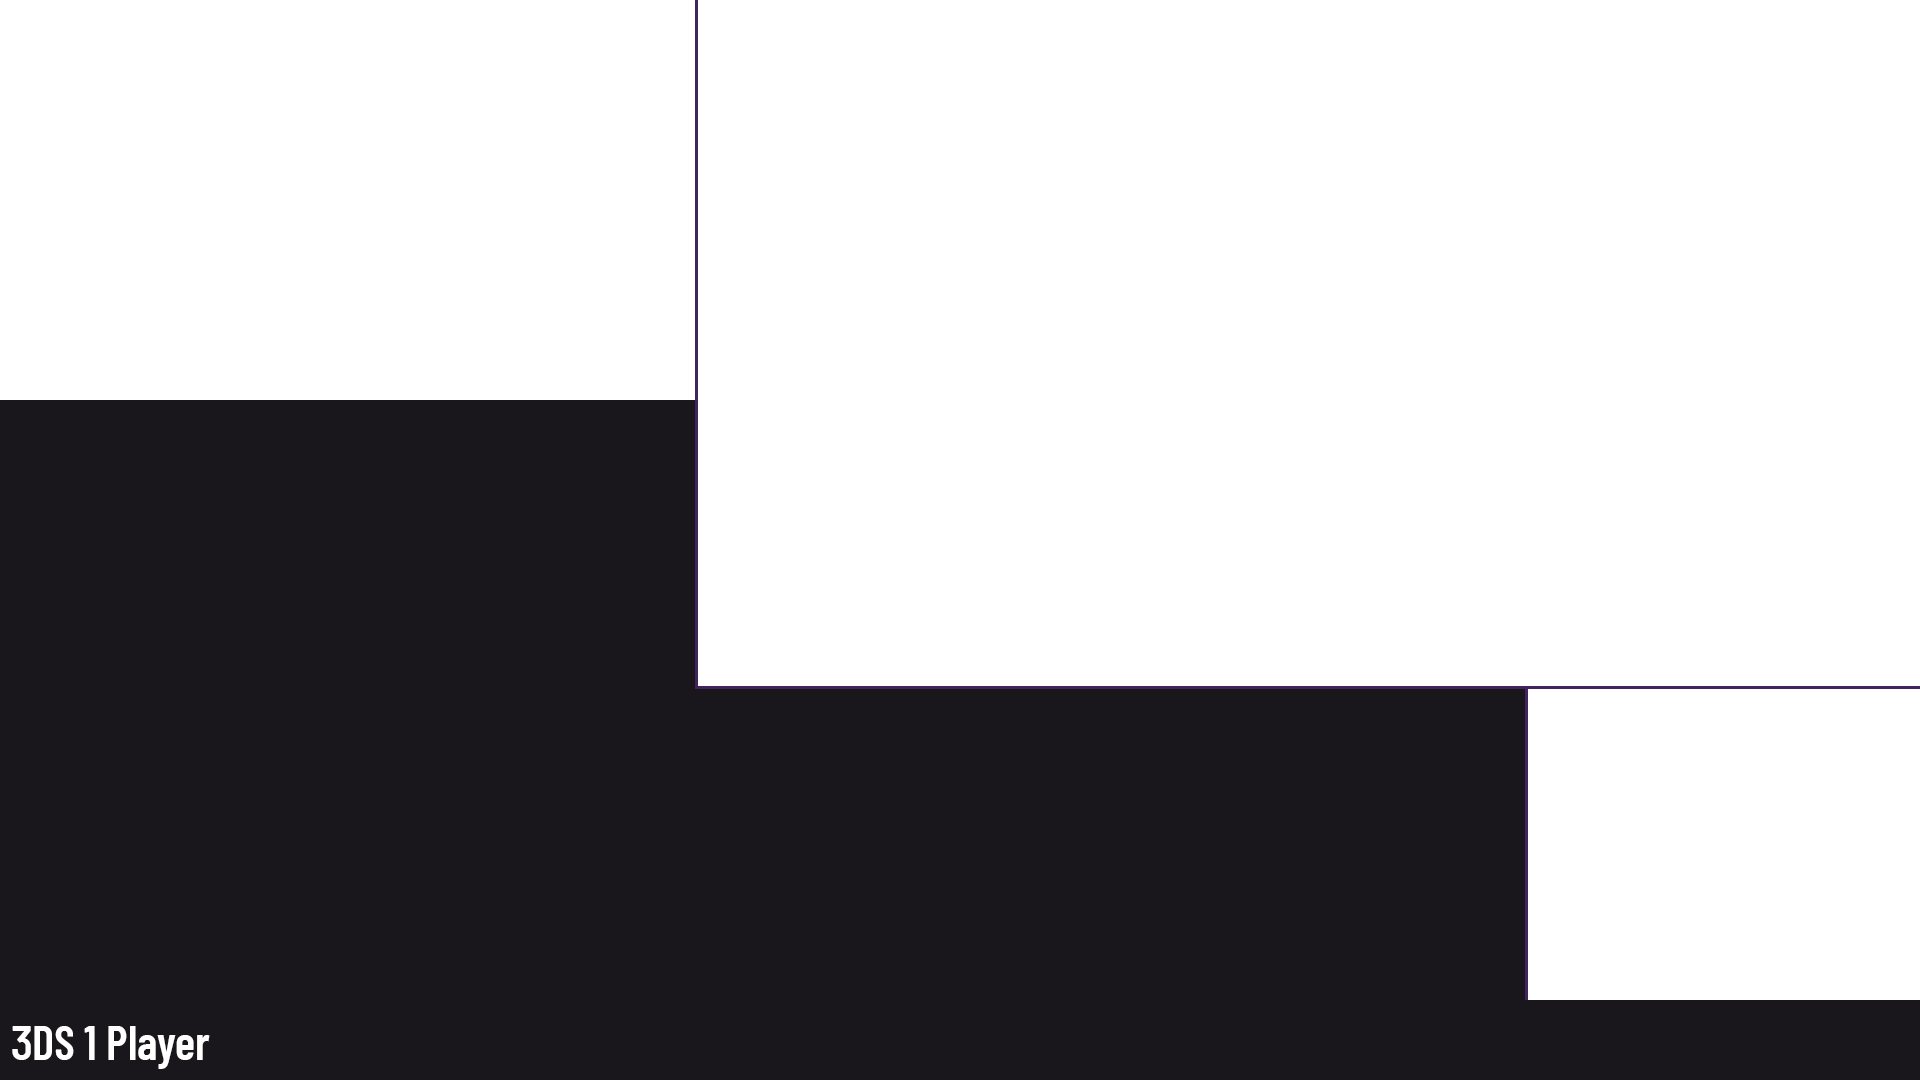
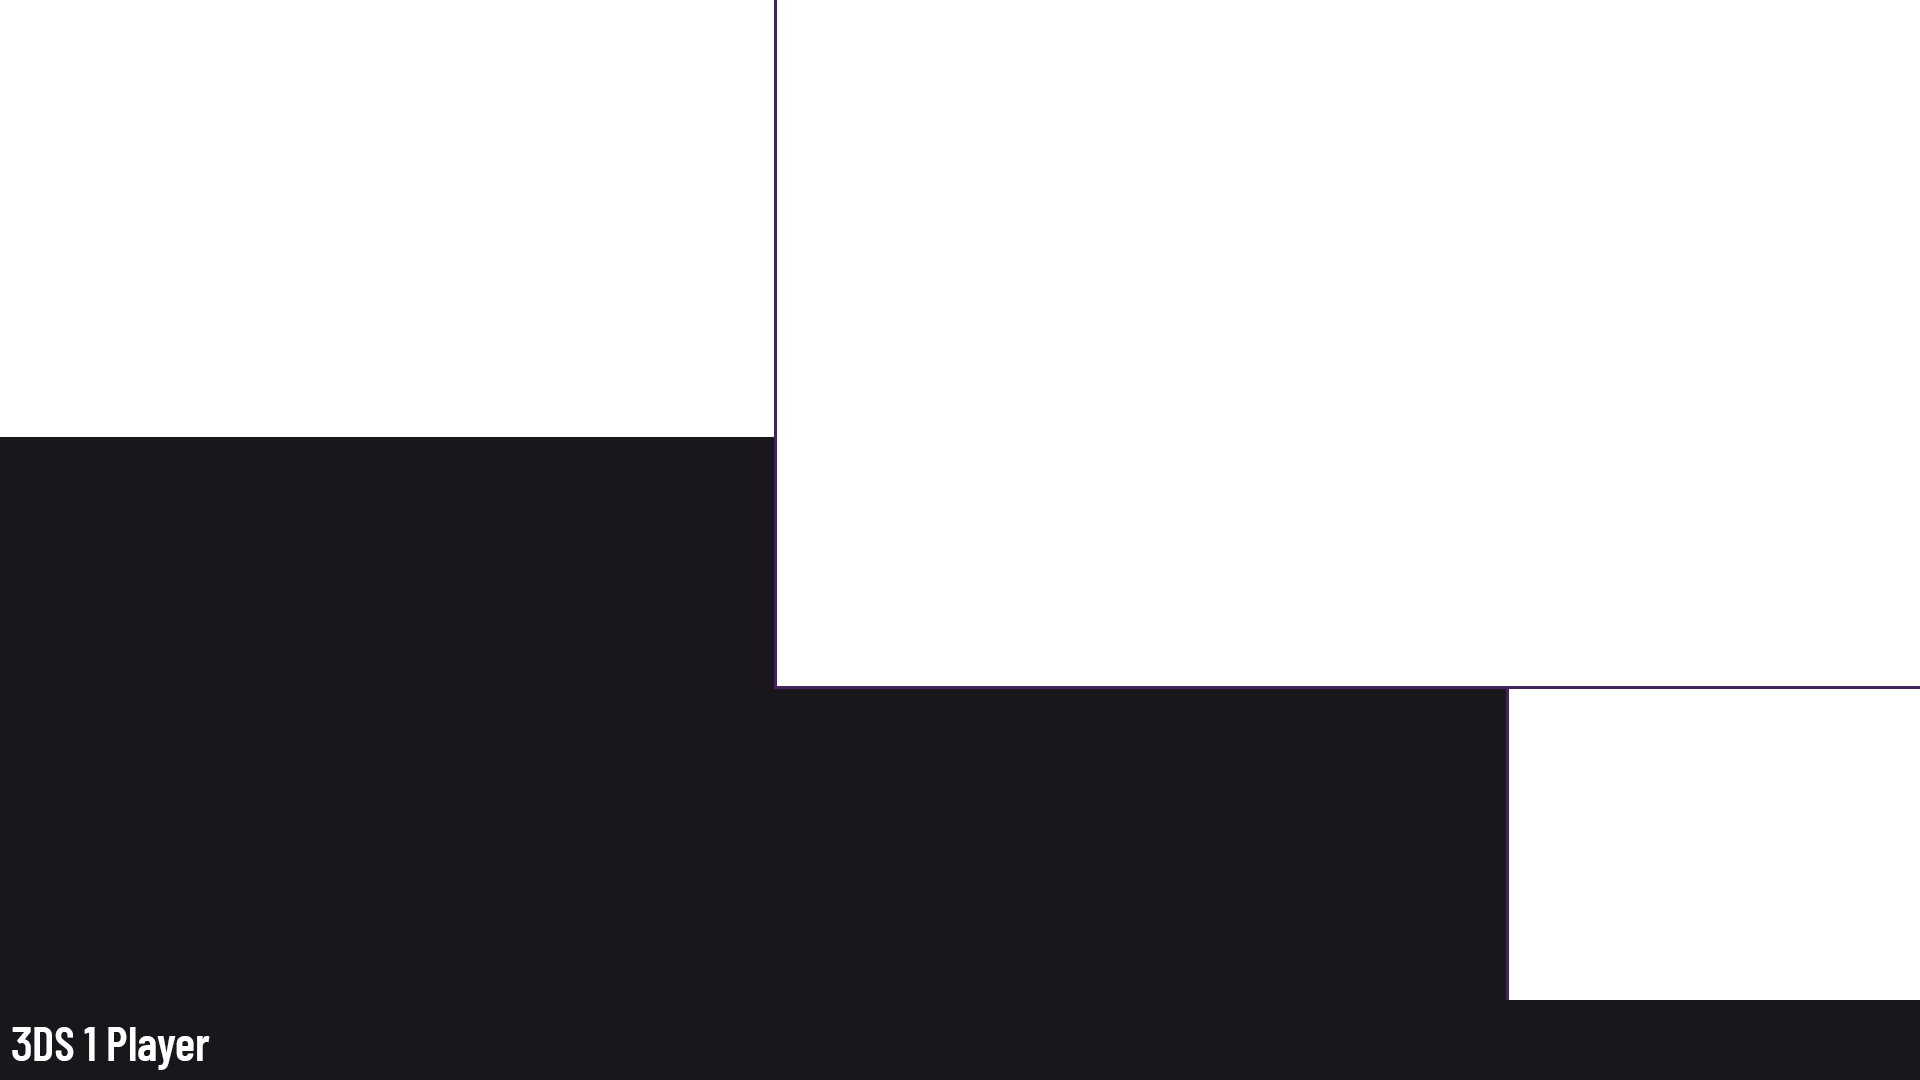
Tweaked 3DS layout to use correct aspect ratios

diff --git a/src/graphics/game-layout/3ds-1p.vue b/src/graphics/game-layout/3ds-1p.vue
@@ -67,44 +67,44 @@ export default {
 
 <style scoped>
   #GameCapture1 {
-    left: 695px;
+    left: 774px;
     top: 0px;
-    width: 1225px;
+    width: 1146px;
     height: 689px;
   }
   #GameCapture2 {
-    left: 1525px;
+    left: 1506px;
     top: 689px;
-    width: 395px;
+    width: 414px;
     height: 311px;
   }
 
   #CameraCapture1 {
     left: 0px;
     top: 0px;
-    width: 695px;
-    height: 400px;
+    width: 774px;
+    height: 437px;
   }
 
   #DonationsBar {
     left: 0px;
     top: 940px;
-    width: 1525px;
+    width: 1506px;
     height: 60px;
   }
 
   #InfoStorageBox1 {
     left: 0px;
-    top: 400px;
-    width: 695px;
-    height: 540px;
+    top: 437px;
+    width: 774px;
+    height: 503px;
   }
 
   #InfoStorageBox2 {
     justify-content: center;
-    left: 695px;
+    left: 774px;
     top: 689px;
-    width: 830px;
+    width: 732px;
     height: 251px;
   }
 </style>
